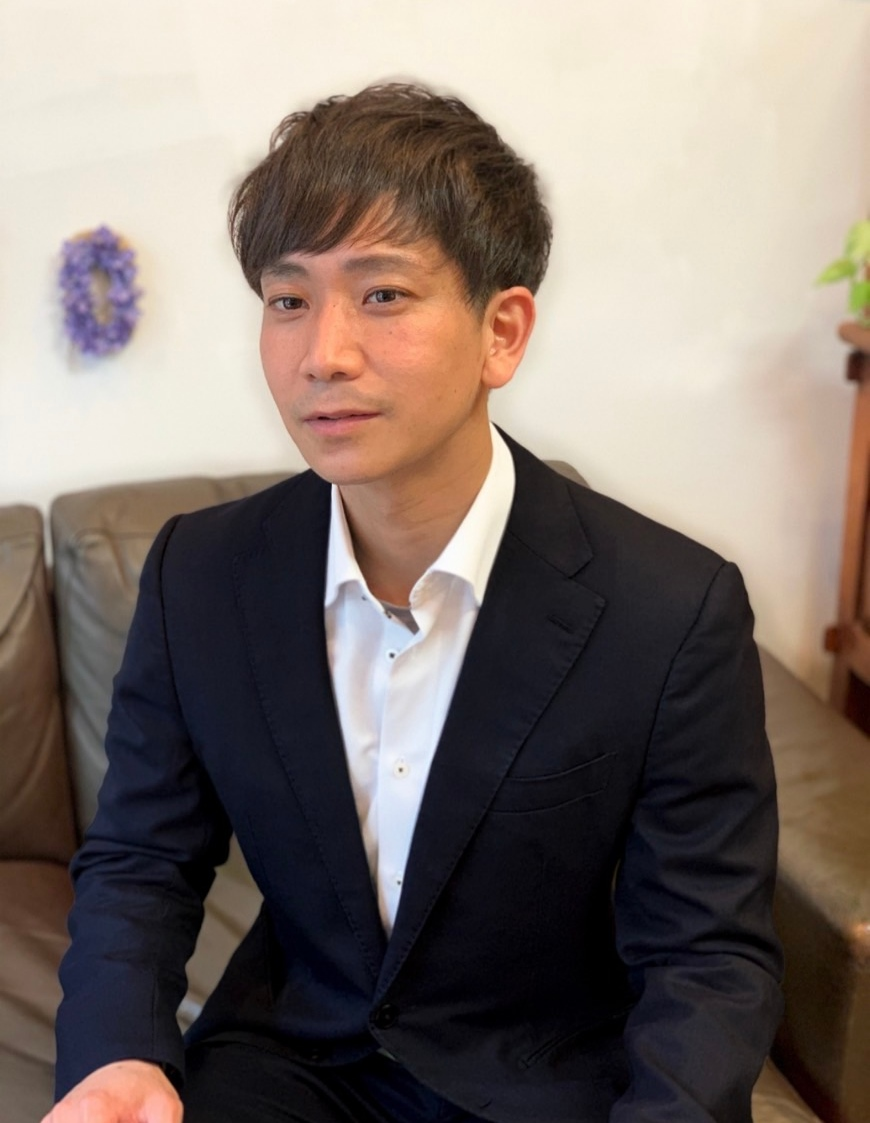
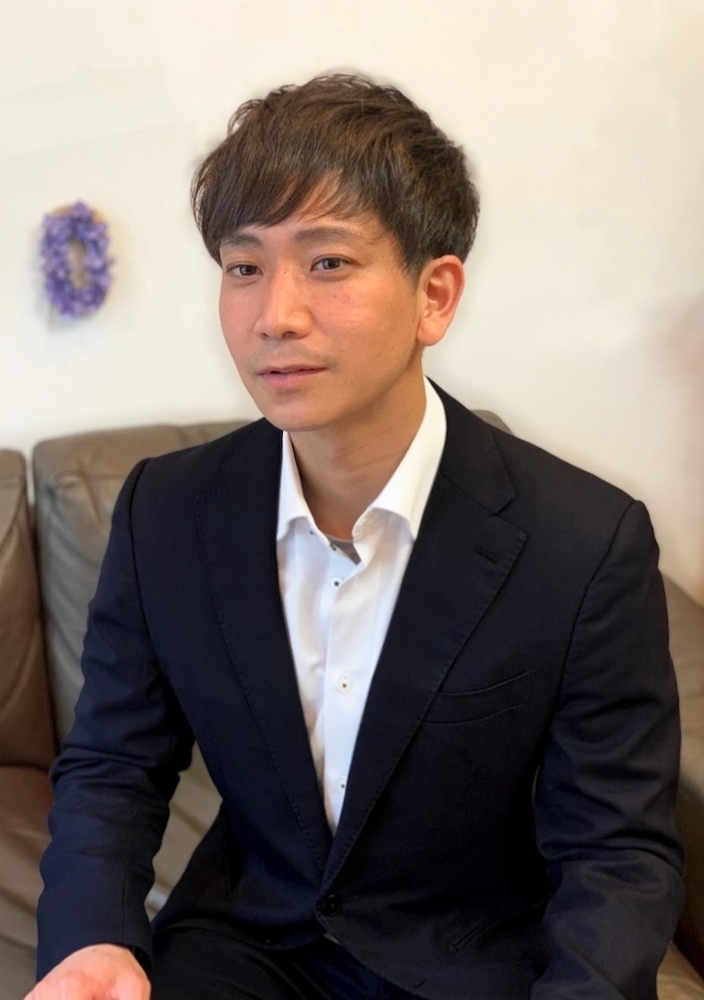
indexページの利用者の声をレスポンシブ対応&画像サイズ統一

diff --git a/components/UsersVoiceComponent.js b/components/UsersVoiceComponent.js
@@ -36,15 +36,16 @@ export default function UsersVoiceComponent() {
       {items.map((value, index) =>
         <div key={index}>
           {index % 2 == 0 
-            ? <div className="flex flex-row gap-x-5">
+            ? <div className="flex flex-col gap-x-5 md:flex-row">
+                <img src={value.src} className="w-[100%] md:w-[0%] bg-none"/>
                 <div className="flex flex-col my-auto">
                   <div className="text-left">{value.content}</div>
                   <div className="text-right">{value.name}</div>
                 </div>
-                <img src={value.src} className="w-[33.333333%] bg-none"/>
+                <img src={value.src} className="w-[0%] md:w-[33.333333%] bg-none"/>
               </div>
-            : <div className="flex flex-row gap-x-5">
-                <img src={value.src} className="w-[33.333333%] bg-none"/>
+            : <div className="flex flex-col gap-x-5 md:flex-row">
+                <img src={value.src} className="w-[100%] md:w-[33.333333%] bg-none"/>
                 <div className="flex flex-col my-auto">
                   <div className="text-left">{value.content}</div>
                   <div className="text-right">{value.name}</div>

diff --git a/pages/index.js b/pages/index.js
@@ -33,10 +33,6 @@ export default function Home() {
           <Top />
           <ServiceComponent />
           <UsersVoice />
-          <News />
-          <Link href="/ContactUs">
-            <LinkCrewH1 title="Contact Us" className="text-center hover:cursor-pointer" />
-          </Link>
         </div>
       </main>
 
